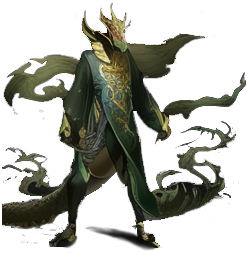
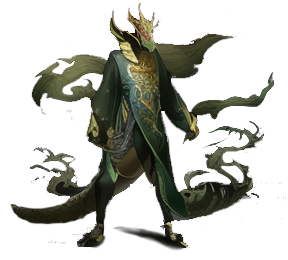
添加粒子效果

diff --git a/dragon_knight_mod/src/main/java/dragonknight/character/DragonPrince.java b/dragon_knight_mod/src/main/java/dragonknight/character/DragonPrince.java
@@ -4,8 +4,10 @@ import static dragonknight.DragonKnightMod.*;
 
 import java.util.ArrayList;
 
+import com.badlogic.gdx.Gdx;
 import com.badlogic.gdx.graphics.Color;
 import com.badlogic.gdx.graphics.g2d.BitmapFont;
+import com.badlogic.gdx.graphics.g2d.ParticleEffect;
 import com.badlogic.gdx.graphics.g2d.SpriteBatch;
 import com.badlogic.gdx.math.MathUtils;
 import com.esotericsoftware.spine.AnimationState;
@@ -17,6 +19,7 @@ import com.megacrit.cardcrawl.cards.AbstractCard.CardColor;
 import com.megacrit.cardcrawl.characters.AbstractPlayer;
 import com.megacrit.cardcrawl.core.CardCrawlGame;
 import com.megacrit.cardcrawl.core.EnergyManager;
+import com.megacrit.cardcrawl.core.Settings;
 import com.megacrit.cardcrawl.dungeons.AbstractDungeon;
 import com.megacrit.cardcrawl.events.beyond.SpireHeart;
 import com.megacrit.cardcrawl.helpers.CardLibrary;
@@ -44,6 +47,8 @@ public class DragonPrince extends CustomPlayer {
 
     // private Form form = Form.HUMAN;
     private BrandQueue brandQueue;
+    // private BoundingBoxAttachment p;
+    ParticleEffect particleEffect = new ParticleEffect();
 
     public DragonPrince() {
         super(NAMES[0], Enums.DRAGON_PRINCE, new CustomEnergyOrb(null, null, null), new AbstractAnimation() { // this.
@@ -53,19 +58,26 @@ public class DragonPrince extends CustomPlayer {
             }
         });
         // ArrayList<String> relics = new ArrayList<>();
-
         // ArrayList<String> deck = new ArrayList<>();
-        initializeClass(characterPath("dragonprince/skeleton.png"),
+        initializeClass(null,
                 SHOULDER_2,
                 SHOULDER_1,
                 CORPSE, getLoadout(),
                 -4.0F, -16.0F, 220.0F, 290.0F, new EnergyManager(ENERGY_PER_TURN));
 
         this.loadAnimation(characterPath("dragonprince/skeleton.atlas"),
-        characterPath("dragonprince/skeleton.json"), 1.0F);
+                characterPath("dragonprince/skeleton.json"), 1.0F);
         AnimationState.TrackEntry e = this.state.setAnimation(0, "idle", true);
         // this.stateData.setMix("Hit", "Idle", 0.1F);
         e.setTimeScale(0.6F);
+        // p = (BoundingBoxAttachment) skeleton.findSlot("p").getAttachment();
+
+        particleEffect.load(Gdx.files.internal("dragonknight/images/particles/a.p"),
+                Gdx.files.internal("dragonknight/images/particles/"));
+        particleEffect.setEmittersCleanUpBlendFunction(false);
+        particleEffect.scaleEffect(0.7f);
+        particleEffect.start();
+
         // com.megacrit.cardcrawl.characters.Ironclad
         brandQueue = new BrandQueue(this);
     }
@@ -236,5 +248,13 @@ public class DragonPrince extends CustomPlayer {
                 || AbstractDungeon.getCurrRoom() instanceof MonsterRoom) && !this.isDead) {
             brandQueue.render(sb);
         }
+
+        particleEffect.setPosition(skeleton.findBone("eye").getWorldX() + hb.x + hb.width / 2,
+                skeleton.findBone("eye").getWorldY() + hb.y + 18 * Settings.scale);
+        particleEffect.update(Gdx.graphics.getDeltaTime()); // 更新粒子效果
+        if (particleEffect.isComplete())
+            particleEffect.start();
+        particleEffect.draw(sb);
+
     }
 }

diff --git a/dragon_knight_mod/src/main/java/dragonknight/cards/uncommon/HeavenlyEtudeOfTheNadir.java b/dragon_knight_mod/src/main/java/dragonknight/cards/uncommon/HeavenlyEtudeOfTheNadir.java
@@ -3,7 +3,6 @@ package dragonknight.cards.uncommon;
 import static dragonknight.DragonKnightMod.*;
 
 import com.megacrit.cardcrawl.actions.common.MakeTempCardInHandAction;
-import com.megacrit.cardcrawl.cards.AbstractCard;
 import com.megacrit.cardcrawl.characters.AbstractPlayer;
 import com.megacrit.cardcrawl.core.CardCrawlGame;
 import com.megacrit.cardcrawl.localization.CardStrings;
@@ -30,6 +29,7 @@ public class HeavenlyEtudeOfTheNadir extends CustomCard {
                 DragonPrince.Enums.CARD_COLOR,
                 RARITY, TARGET);
         this.cardsToPreview = new EtudeOfTheNadir();
+        this.cardsToPreview.upgrade();
         this.baseMagicNumber = 4;
         this.exhaust = true;
         this.tags.add(DragonKnightMod.Enums.EXHAUST);
@@ -51,9 +51,9 @@ public class HeavenlyEtudeOfTheNadir extends CustomCard {
     public void use(AbstractPlayer p, AbstractMonster m) {
         // int handSize = p.hand.size();
         this.addToBot(new HandToDrawPileAction());
-        AbstractCard c = new EtudeOfTheNadir();
-        c.upgrade();
-        this.addToBot(new MakeTempCardInHandAction(c, this.baseMagicNumber));
+        // AbstractCard c = new EtudeOfTheNadir();
+        // c.upgrade();
+        this.addToBot(new MakeTempCardInHandAction(this.cardsToPreview.makeStatEquivalentCopy(), this.baseMagicNumber));
 
     }
 
